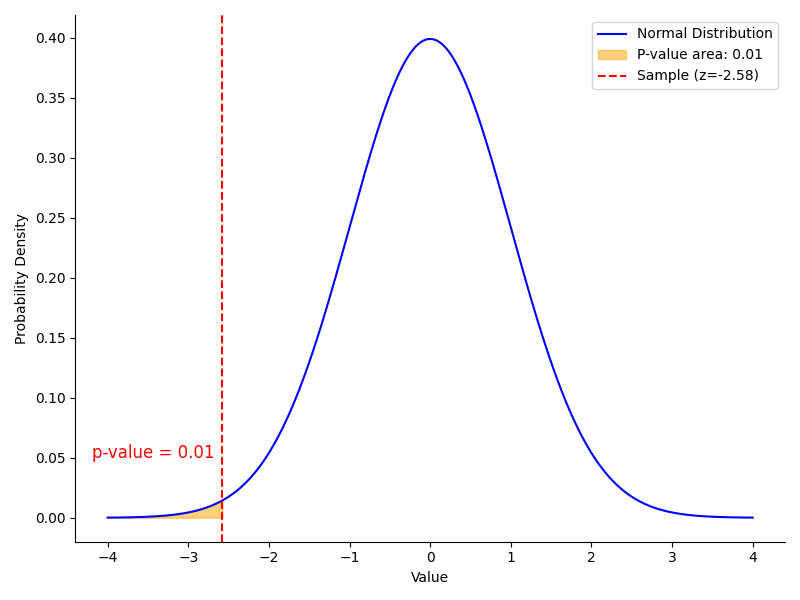
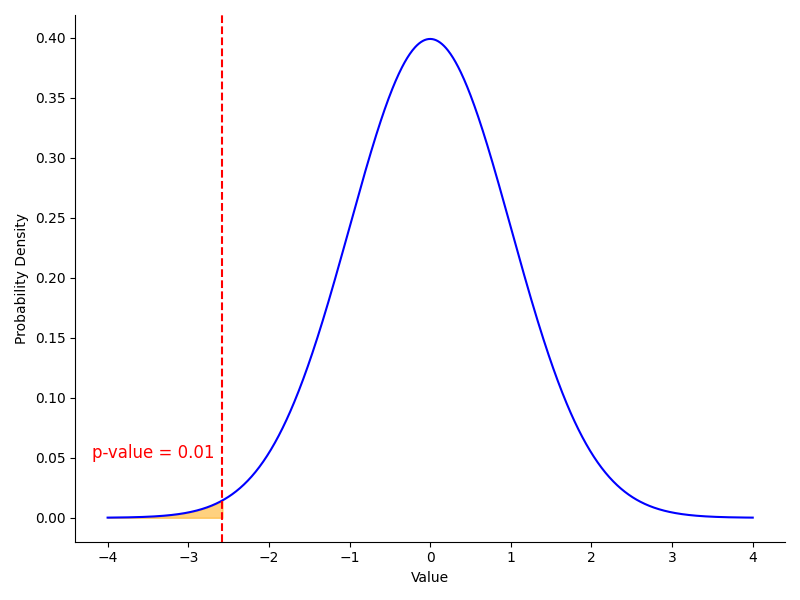
v1

Changed region(s): [[0.75, 0.03, 0.9688, 0.15]]

diff --git a/index.html b/index.html
@@ -60,23 +60,21 @@
       text-align: justify;
     }
 
-    @media (max-width: 768px) {
-    .fade-section {
-        transform: translateY(30px); /* Reduce the vertical movement for mobile */
-        transition: opacity 0.5s ease-out, transform 0.5s ease-out; /* Faster transition */
-    }
-}
-
-    /* Show the rows when they are fully visible */
-    .visible {
-        opacity: 1;
-        transform: translateY(0); 
-    }
-
     .kpi-value {
     font-size: 1.5rem;
     font-weight: bold;
     color: #007bff;
+    }
+
+    /* CSS to control the indentation of list items */
+    ol {
+        list-style-position: inside;  /* Ensures the bullet/number is inside the list box */
+        padding-left: 1.5em;          /* Padding to give space for the number */
+    }
+    
+    ol li {
+        text-indent: -1.5em;          /* Indent text to align with the bullet */
+        padding-left: 1.5em;          /* Padding for the content to align under the bullet */
     }
   </style>
 </head>
@@ -105,7 +103,7 @@
   <!-- Expertise Section -->
   <section class="container mt-5">
 
-    <div class="row fade-section">
+    <div class="row">
 
     <h2 class="section-title text-center">Expertise</h2>
 
@@ -128,10 +126,10 @@
             <p class="card-text">The right statistics to answer your questions.</p>
             <div class="row text-center">
                 <div class="col-6" style="width: 100%">
-                    <img src="images/pval.png" class="img-fluid mb-2" alt="Clustering">
+                    <img src="images/pval.png" class="img-fluid mb-2" alt="P-Value">
                 </div>
                 <div class="col-6" style="width: 100%">
-                    <img src="images/neural_network.png" class="img-fluid mb-2" alt="Neural Network">
+                    <img src="images/linreg.png" class="img-fluid mb-2" alt="Linear Regression">
                 </div>
     
                 </div>
@@ -164,54 +162,64 @@
     
     </div>
 
-    <div class="row fade-section">
+    <div class="row">
 
     <h2 class="section-title text-center">Example projects</h2>
 
-    <!-- Bioinformatics -->
-    <div class="col-md-4 project-card">
-        <div class="card h-100">
-          <div class="card-body">
-            <h5 class="card-title">Bioinformatic Data Pipelines</h5>
-            <p class="card-text">Automated bioinformatic pipelines with custom analyses for any sequencing technology.</p>
-            <img src="images/bioinformatic_pipeline.png" class="card-img-top img-fluid" alt="Project Image">
-          </div>
-        </div>
-      </div>
-
-    <!-- Signal Processing Card -->
-    <div class="col-md-4 project-card">
-        <div class="card h-100">
+        <!-- Bioinformatics -->
+        <div class="col-md-4 project-card">
+            <div class="card h-100">
             <div class="card-body">
-                <h5 class="card-title">Signal Processing</h5>
-                <p class="card-text">Extract information from complex signals.</p>
-                
-                <div id="compoundSignalPlot" class="mb-3" style="width: 100%"></div>
-                <div id="componentSignalPlot" class="mb-3" style="width: 100%"></div>
+                <h5 class="card-title">Bioinformatic Data Pipelines</h5>
+                <p class="card-text">Automated bioinformatic pipelines with custom analyses for any sequencing technology.</p>
+                <img src="images/bioinformatic_pipeline.png" class="card-img-top img-fluid" alt="Project Image">
+            </div>
             </div>
         </div>
-    </div>
 
-    <!-- Business Intelligence Project Card -->
-    <div class="col-md-4 project-card">
-        <div class="card h-100">
-            <div class="card-body">
-                <h5 class="card-title">Business Intelligence</h5>
-                <p class="card-text">Analyze sales, customer insights, and operational performance.</p>
-                
-                <div id="plotlyDashboard" class="mb-3" style="width:100%"></div>
+        <!-- Signal Processing Card -->
+        <div class="col-md-4 project-card">
+            <div class="card h-100">
+                <div class="card-body">
+                    <h5 class="card-title">Signal Processing</h5>
+                    <p class="card-text">Extract information from complex signals.</p>
+                    
+                    <div id="compoundSignalPlot" class="mb-3" style="width: 100%"></div>
+                    <div id="componentSignalPlot" class="mb-3" style="width: 100%"></div>
+                </div>
+            </div>
+        </div>
 
-                <!-- Progress Bars (example) -->
-                <p>Sales Target</p>
-                <div class="progress" role="progressbar" aria-label="Animated striped example" aria-valuenow="80" aria-valuemin="0" aria-valuemax="100">
-                <div class="progress-bar progress-bar-striped progress-bar-animated bg-success" style="width: 80%">80%</div>
+        <!-- Business Intelligence Project Card -->
+        <div class="col-md-4 project-card">
+            <div class="card h-100">
+                <div class="card-body">
+                    <h5 class="card-title">Business Intelligence</h5>
+                    <p class="card-text">Analyze sales, customer insights, and operational performance.</p>
+                    
+                    <div id="plotlyDashboard" class="mb-3" style="width:100%"></div>
+
+                    <!-- Progress Bars (example) -->
+                    <p>Sales Target</p>
+                    <div class="progress" role="progressbar" aria-label="Animated striped example" aria-valuenow="80" aria-valuemin="0" aria-valuemax="100">
+                    <div class="progress-bar progress-bar-striped progress-bar-animated bg-success" style="width: 80%">80%</div>
+                    </div>
                 </div>
             </div>
         </div>
     </div>
-
-
+    <div class="row">
+        <div>
+            <h3>Publications</h3>
+            <p id="citation-count">Over <strong>300</strong> citations, <a href="https://scholar.google.com/citations?user=yMGaQUoAAAAJ" target="_blank">
+                view my publications and citations on Google Scholar
+            </a></p>
+            <ol id="publications"></ol>
+        </div>
+        
+        
     </div>
+
     
   </section>
 
@@ -323,8 +331,8 @@
 
             var camera = {
             eye: {
-                x: 1.5 * Math.cos(angle),
-                y: 1.5 * Math.sin(angle),
+                x: 2 * Math.cos(angle),
+                y: 2 * Math.sin(angle),
                 z: 0.1
             }
             };
@@ -599,10 +607,46 @@
         window.addEventListener('scroll', debounce(handleScroll));
     });
 </script>
+<script>
+    const orcidId = '0000-0003-1129-2910'; // Replace with your ORCID ID
+    const url = `https://pub.orcid.org/v3.0/${orcidId}/works`;
 
+    fetch(url, {
+        headers: {
+            'Accept': 'application/json'
+        }
+    })
+    .then(response => response.json())
+    .then(data => {
+        const works = data.group;
+        const publicationsDiv = document.getElementById('publications');
 
-    
-  
+        // Loop through works and display title, year, journal, and DOI (if available)
+        works.forEach((work, index) => {
+            const title = work['work-summary'][0].title.title.value;
+            const publicationYear = work['work-summary'][0]['publication-date']?.year?.value || 'No year available';
+            const journal = work['work-summary'][0]['journal-title']?.value || 'No journal available';
+            
+            // Find the DOI in the external identifiers
+            let doi = 'No DOI available';  // Default if no DOI
+            const identifiers = work['work-summary'][0]['external-ids']['external-id'];
+            identifiers.forEach(identifier => {
+                if (identifier['external-id-type'] === 'doi') {
+                    doi = identifier['external-id-value'];
+                }
+            });
+
+            // Create an ordered list item for each work
+            const citation = document.createElement('li');
+            citation.innerHTML = `<strong>${title}</strong> (${publicationYear}), ${journal}, DOI: ${doi !== 'No DOI available' ? `<a href="https://doi.org/${doi}" target="_blank">${doi}</a>` : doi}`;
+            publicationsDiv.appendChild(citation);
+        });
+    })
+    .catch(error => {
+        console.error('Error fetching ORCID data:', error);
+    });
+</script>
+
 
 </body>
 </html>

diff --git a/images/linreg.py b/images/linreg.py
@@ -1,0 +1,32 @@
+import numpy as np
+import matplotlib.pyplot as plt
+from sklearn.linear_model import LinearRegression
+
+# Generate random data
+np.random.seed(0)
+X = 2 * np.random.rand(100, 1)
+y = 4 + 3 * X + np.random.randn(100, 1)
+
+# Fit linear regression model
+model = LinearRegression()
+model.fit(X, y)
+y_pred = model.predict(X)
+
+# Plot the data points and regression line
+F = plt.figure(figsize=(8, 6))
+ax = F.add_subplot(111)
+ax.scatter(X, y, color='blue', label='Data Points')
+ax.plot(X, y_pred, color='red', linewidth=2, label='Regression Line')
+
+# Add title and labels
+# ax.title('Linear Regression Example', fontsize=16)
+ax.set_xlabel('X', fontsize=12)
+ax.set_ylabel('y', fontsize=12)
+ax.spines[['right', 'top']].set_visible(False)
+
+# Add legend
+# ax.legend()
+
+# Show plot
+plt.grid(False)
+plt.savefig('linreg.png')

diff --git a/images/pval.py b/images/pval.py
@@ -43,7 +43,7 @@ ax.text(sample-0.1, 0.05, f'p-value = {p_value:.2f}', color='red', fontsize=12, 
 # ax.title('Normal Distribution with Sample Leading to p-value < 0.01 and 95% Confidence Interval')
 ax.set_xlabel('Value')
 ax.set_ylabel('Probability Density')
-ax.legend()
+# ax.legend()
 ax.spines[['right', 'top']].set_visible(False)
 
 # Show the plot
